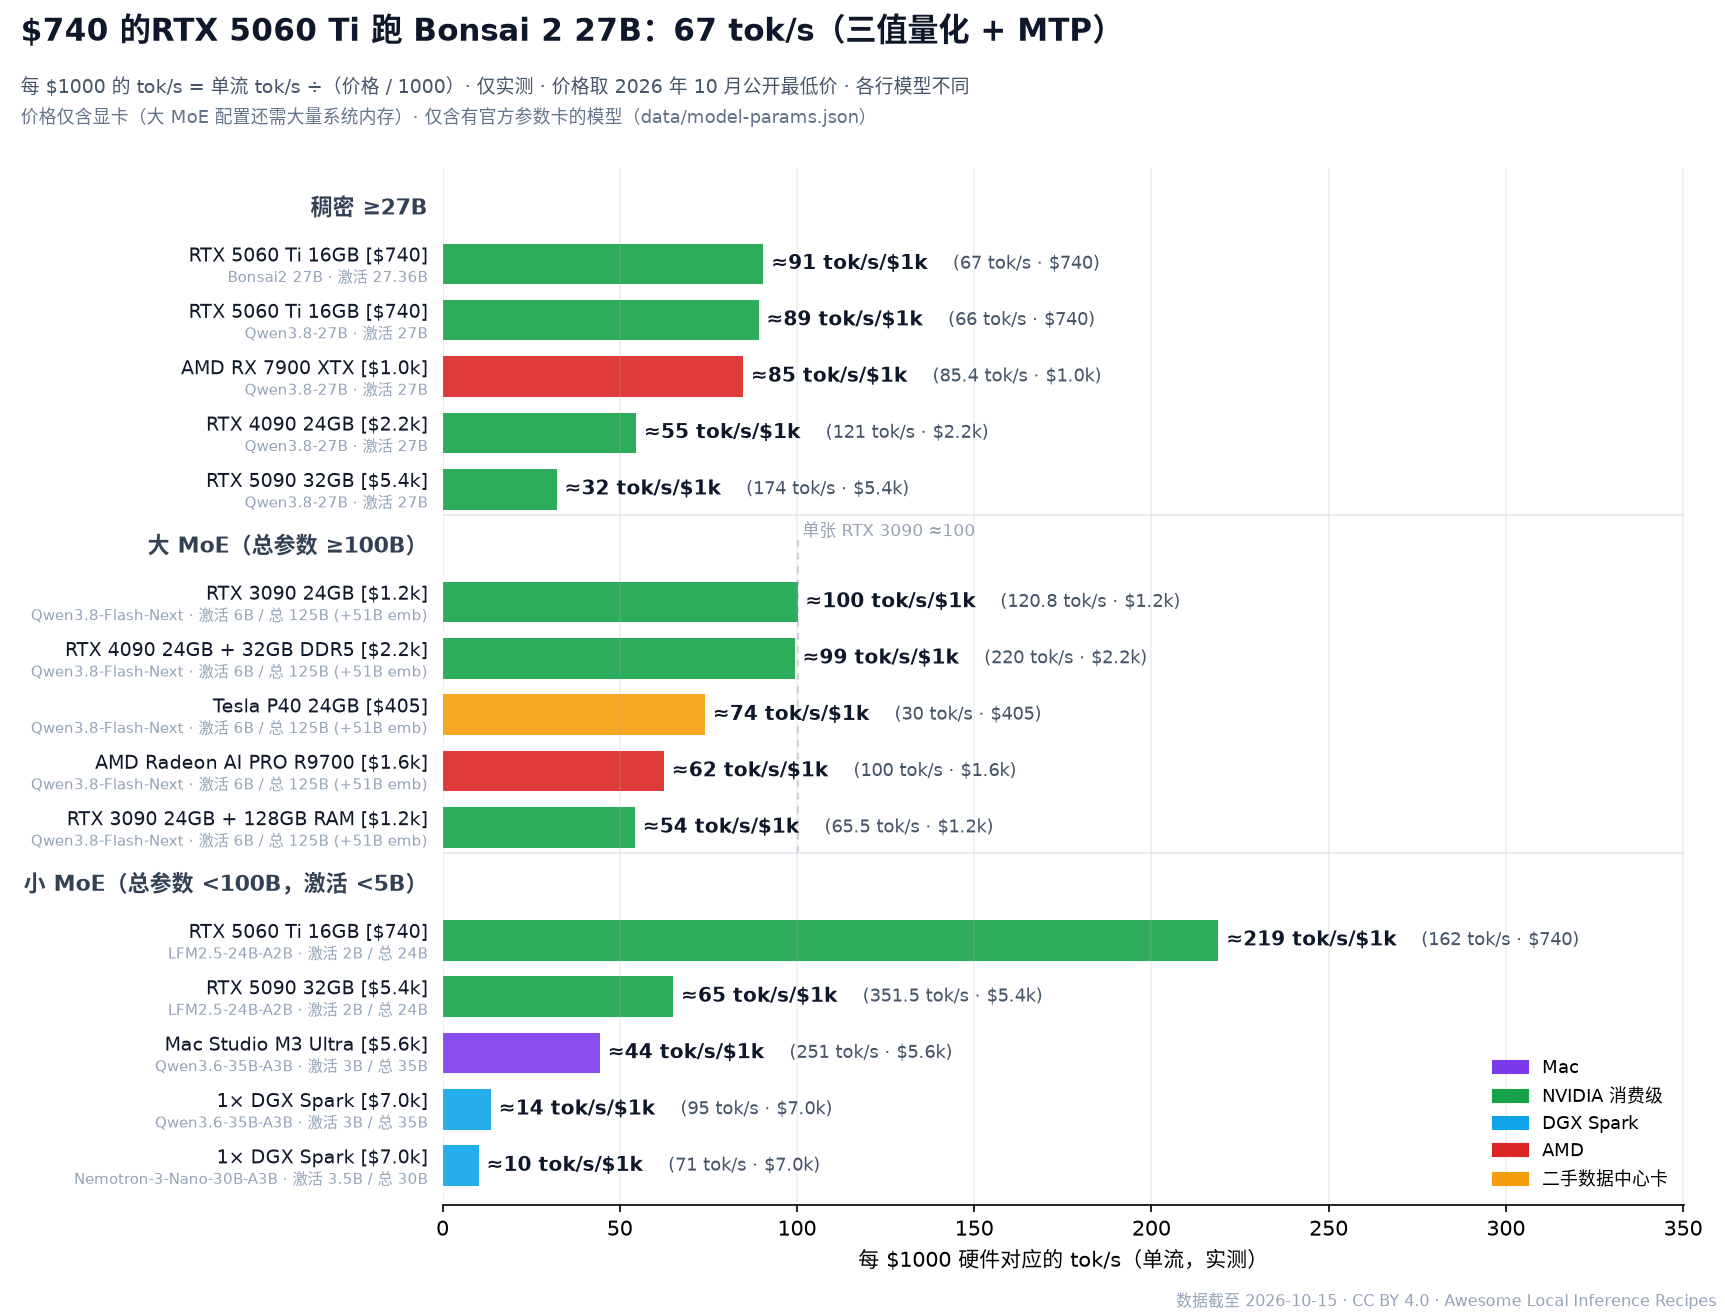
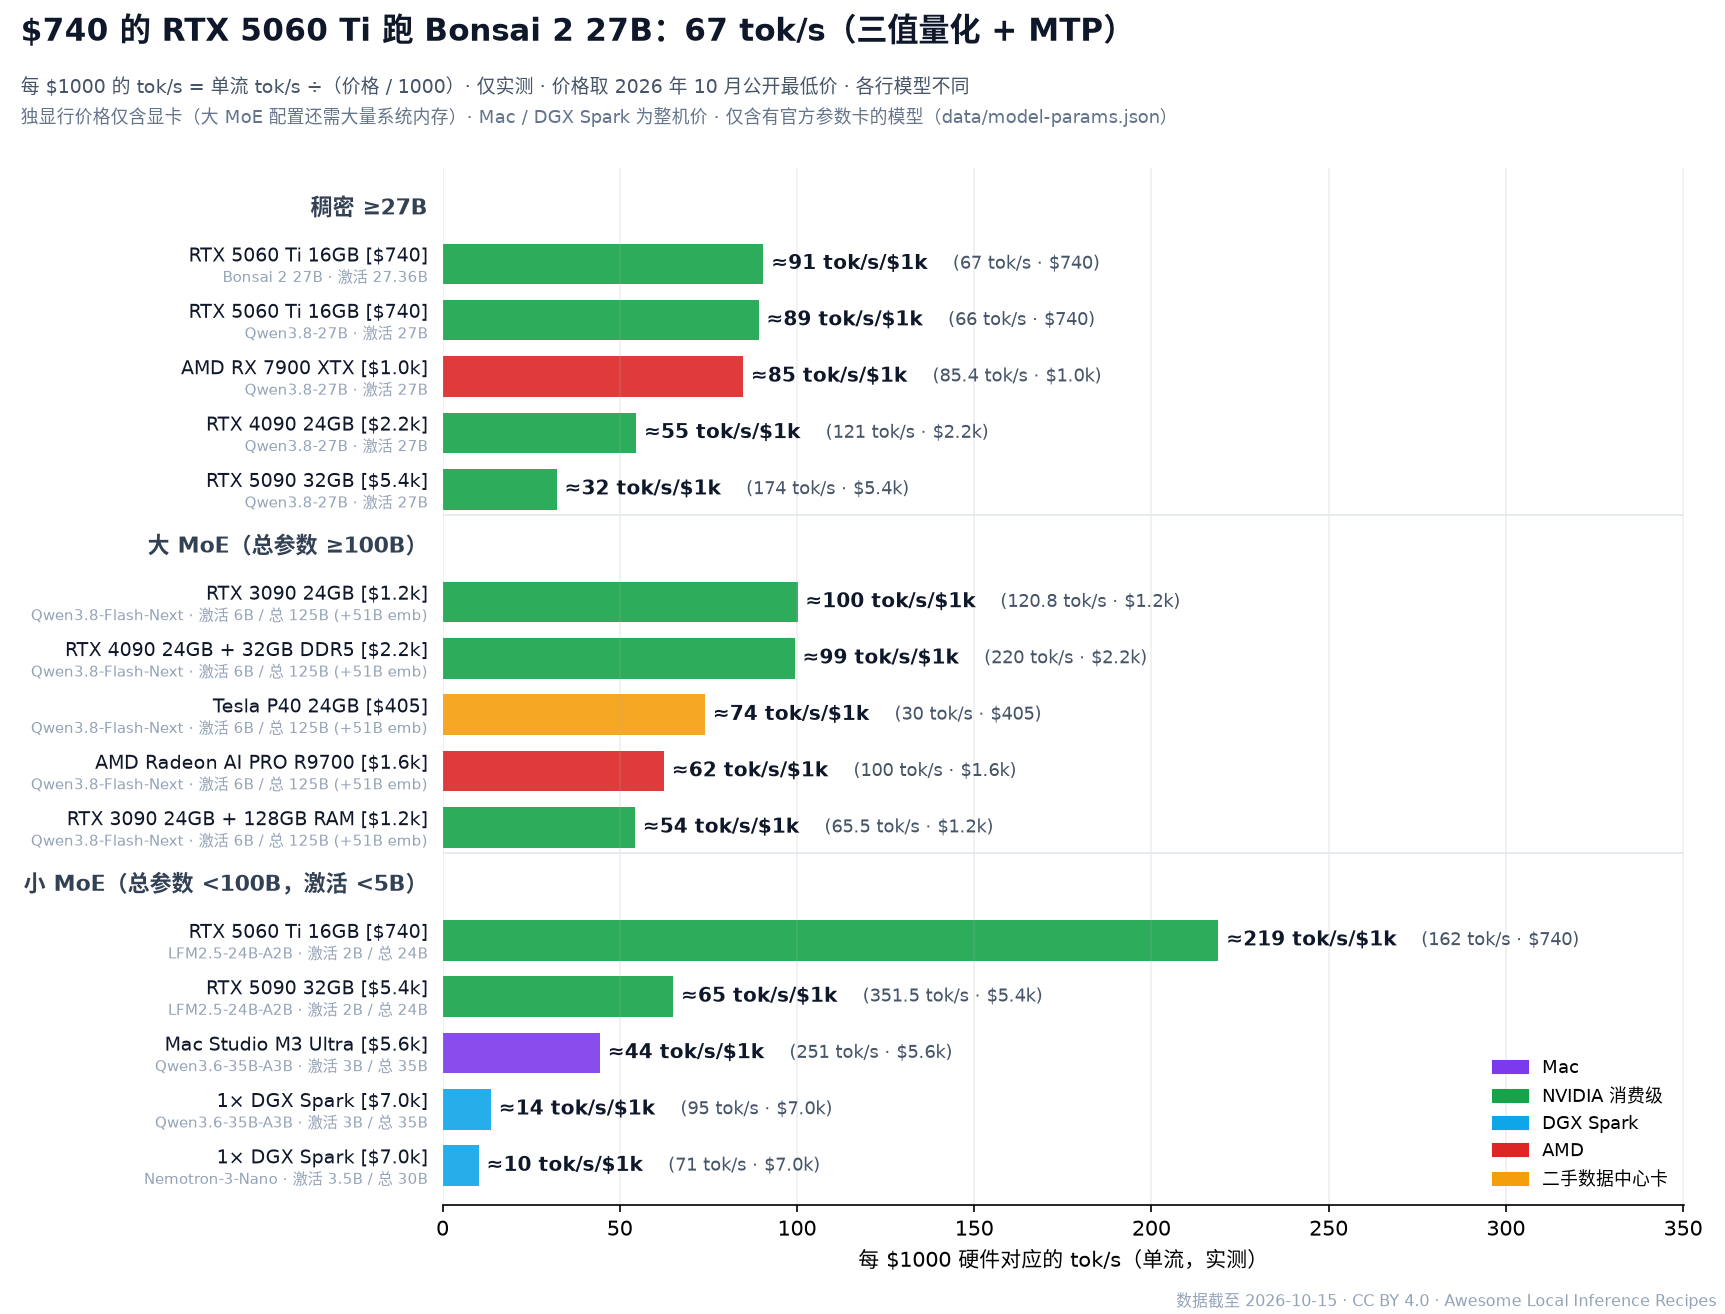
hero v5.1: price note distinguishes dGPU card vs Mac/DGX whole-system, 3090 baseline restricted to bare-3090 Big MoE rows (line disappeared here because a dedupe-key collision merged text-008 into text-007; fixed in v5.2), card labels on rows, CJK spacing, quant_native check, regex check + gen_hero 

Changed region(s): [[0.0, 0.0624, 0.6759, 0.0936], [0.0922, 0.0, 0.6452, 0.0312], [0.0614, 0.8737, 0.1536, 0.9049]]

diff --git a/scripts/gen_hero.py b/scripts/gen_hero.py
@@ -53,7 +53,7 @@ HT={'en':dict(t='A {p} {u}{hw} runs {tok:g} tok/s',used='used ',
     'zh-CN':dict(t='{p} 的{u}{hw} 就能跑 {tok:g} tok/s',used='二手 ',
       sub='每 $1000 的 tok/s = 单流 tok/s ÷（价格 / 1000）· 仅实测 · 价格取 2026 年 10 月公开最低价 · 各行模型不同',
       base='单张 RTX 3090 ≈{v:.0f}',note='数据截至 {d} · CC BY 4.0 · Awesome Local Inference Recipes'),
-    'ja':dict(t='{p} の{u}{hw} で {tok:g} tok/s',used='中古 ',
+    'ja':dict(t='{p} の {u}{hw} で {tok:g} tok/s',used='中古 ',
       sub='$1,000 あたり tok/s = 1 ストリーム tok/s ÷（価格 / 1000）· 実測のみ · 2026 年 10 月の公開最安価格 · 行ごとにモデルは異なる',
       base='RTX 3090 1 枚 ≈{v:.0f}',note='データ時点 {d} · CC BY 4.0 · Awesome Local Inference Recipes')}
 PARAMS=json.load(open(R/'data/model-params.json'))['models']
@@ -68,11 +68,11 @@ GROUPS=[('dense',lambda m:m['arch']=='dense' and m['total_b']>=27),
         ('mid',lambda m:m['arch']=='moe' and m['total_b']<100 and m['active_b']>=5),
         ('small',lambda m:m['arch']=='moe' and m['total_b']<100 and m['active_b']<5)]
 GT={'en':dict(dense='Dense ≥27B',big='Big MoE (≥100B total)',mid='Mid MoE (<100B total, ≥5B active)',small='Small MoE (<100B total, <5B active)',act='{a} active',tot='{a} active / {t} total',
-              t='{p} {u}{hw} runs {m} at {tok:g} tok/s',flag=' ({f})',tern='ternary quant',mtp='MTP',sep=' + ',only='Prices are GPU/card only (Big MoE setups also need lots of system RAM) · only models with official parameter cards (data/model-params.json)'),
+              t='{p} {u}{hw} runs {m} at {tok:g} tok/s',flag=' ({f})',tern='ternary quant',mtp='MTP',sep=' + ',only='Discrete-GPU rows: card price only (Big MoE setups also need lots of system RAM) · Mac / DGX Spark: whole system · only models with official parameter cards (data/model-params.json)'),
     'zh-CN':dict(dense='稠密 ≥27B',big='大 MoE（总参数 ≥100B）',mid='中 MoE（总参数 <100B，激活 ≥5B）',small='小 MoE（总参数 <100B，激活 <5B）',act='激活 {a}',tot='激活 {a} / 总 {t}',
-              t='{p} 的{u}{hw} 跑 {m}：{tok:g} tok/s',flag='（{f}）',tern='三值量化',mtp='MTP',sep=' + ',only='价格仅含显卡（大 MoE 配置还需大量系统内存）· 仅含有官方参数卡的模型（data/model-params.json）'),
+              t='{p} 的 {u}{hw} 跑 {m}：{tok:g} tok/s',flag='（{f}）',tern='三值量化',mtp='MTP',sep=' + ',only='独显行价格仅含显卡（大 MoE 配置还需大量系统内存）· Mac / DGX Spark 为整机价 · 仅含有官方参数卡的模型（data/model-params.json）'),
     'ja':dict(dense='Dense ≥27B',big='大型 MoE（総パラメータ ≥100B）',mid='中型 MoE（総 <100B、アクティブ ≥5B）',small='小型 MoE（総 <100B、アクティブ <5B）',act='アクティブ {a}',tot='アクティブ {a} / 総 {t}',
-              t='{p} の{u}{hw} で {m} が {tok:g} tok/s',flag='（{f}）',tern='3 値量子化',mtp='MTP',sep=' + ',only='価格は GPU 本体のみ（大型 MoE 構成は大容量のメインメモリも必要）· 公式パラメータカードのあるモデルのみ（data/model-params.json）')}
+              t='{p} の {u}{hw} で {m} が {tok:g} tok/s',flag='（{f}）',tern='3 値量子化',mtp='MTP',sep=' + ',only='dGPU 行は GPU 本体価格のみ（大型 MoE 構成は大容量のメインメモリも必要）· Mac / DGX Spark は本体一式 · 公式パラメータカードのあるモデルのみ（data/model-params.json）')}
 PER=5
 def hero(lang):
     t=TX[lang]; h=HT[lang]; g=GT[lang]
@@ -98,10 +98,11 @@ def hero(lang):
         ax.annotate(f"({r['tok_s']:g} tok/s · {money(r['hardware_cost_usd'])})",(r['_v']+vmax*.01,y),xytext=(len(f"≈{r['_v']:.0f} tok/s/$1k")*6.4+4,0),textcoords='offset points',va='center',fontsize=8.5,color='#475569')
         ax.text(-.012,y+.13,f"{clean(r['hardware'],30)} [{money(r['hardware_cost_usd'])}]",transform=ax.get_yaxis_transform(),ha='right',va='center',fontsize=9.2,color='#0f172a')
         pa=g['act'].format(a=fmtb(m['active_b'])) if m['arch']=='dense' else g['tot'].format(a=fmtb(m['active_b']),t=m.get('total_label') or fmtb(m['total_b']))
-        ax.text(-.012,y-.24,f"{clean(r['model'],26)} · {pa}",transform=ax.get_yaxis_transform(),ha='right',va='center',fontsize=7.3,color='#94a3b8')
+        ax.text(-.012,y-.24,f"{clean(m['label'],26)} · {pa}",transform=ax.get_yaxis_transform(),ha='right',va='center',fontsize=7.3,color='#94a3b8')
     ax.set_yticks([]); ax.set_ylim(-.7,n-.3)
-    b=[r for r in meas if re.fullmatch(r'(单 )?RTX 3090( 24GB)?',clean(r['hardware'],80))]
-    if b and span:  # 3090 baseline is only comparable to the Big MoE rows (same offload regime); draw it inside that group
+    # bare single-3090 rows only (raw string: no '+RAM' asides), Big MoE models only, so the line is a like-for-like reference
+    b=[r for r in meas if re.fullmatch(r'(单 )?RTX 3090( 24GB)?',r['hardware'].strip()) and dict(GROUPS)['big'](params(r))]
+    if b and span:  # span=(header idx, last row idx); 3090 baseline is only comparable to the Big MoE rows (same offload regime); draw it inside that group
         bv=max(r['_v'] for r in b); y0,y1=n-1-span[1]-.45,n-1-span[0]+.1
         ax.vlines(bv,y0,y1,linestyles=(0,(4,4)),lw=.8,color='#b6c0cf',alpha=.8,zorder=0)
         ax.text(bv,y1,' '+h['base'].format(v=bv),fontsize=8,color='#98a2b3',va='bottom')
@@ -143,6 +144,8 @@ def tiers(lang):
     fig.tight_layout()
     return fig
 if __name__=='__main__':
+    miss=sorted({r['model'] for r in U if r['_m'] and not params(r)})
+    if miss: print('note: measured models without a data/model-params.json card (left off hero):',miss)
     have={f.name for f in fm.fontManager.ttflist}
     for lang,suf in SUF.items():
         plt.rcParams['font.family']=['DejaVu Sans']+([CJK[lang]] if lang in CJK and CJK[lang] in have else [])

diff --git a/tests/test_model_params.py b/tests/test_model_params.py
@@ -16,6 +16,7 @@ class ModelParams(unittest.TestCase):
             self.assertGreater(m['total_b'], 0); self.assertGreater(m['active_b'], 0)
             self.assertLessEqual(m['active_b'], m['total_b'], m['label'])
             if m['arch'] == 'dense': self.assertEqual(m['active_b'], m['total_b'], m['label'])
+            self.assertIn(m.get('quant_native'), (None, 'ternary', '1bit'), m['label'])
             re.compile(m['match']); m.get('exclude') and re.compile(m['exclude'])
     def test_known_traps(self):
         self.assertIsNone(self.match('Bonsai 27B 1-bit'))
@@ -29,4 +30,8 @@ class ModelParams(unittest.TestCase):
         # warning, not failure: new data PRs may add models before a card exists (they are just left off the hero)
         miss = [m for m in miss if not re.search(r'REAP', m)]
         if miss: warnings.warn(f'models missing from data/model-params.json (omitted from hero): {miss}')
+    def test_every_hero_group_nonempty_for_known_models(self):
+        # hard check that the card regexes still match the headline models
+        for name in ('Qwen3.8-27B', 'Qwen3.8-Flash-Next', 'LFM2.5-24B-A2B'):
+            self.assertIsNotNone(self.match(name), name)
 if __name__ == '__main__': unittest.main()
